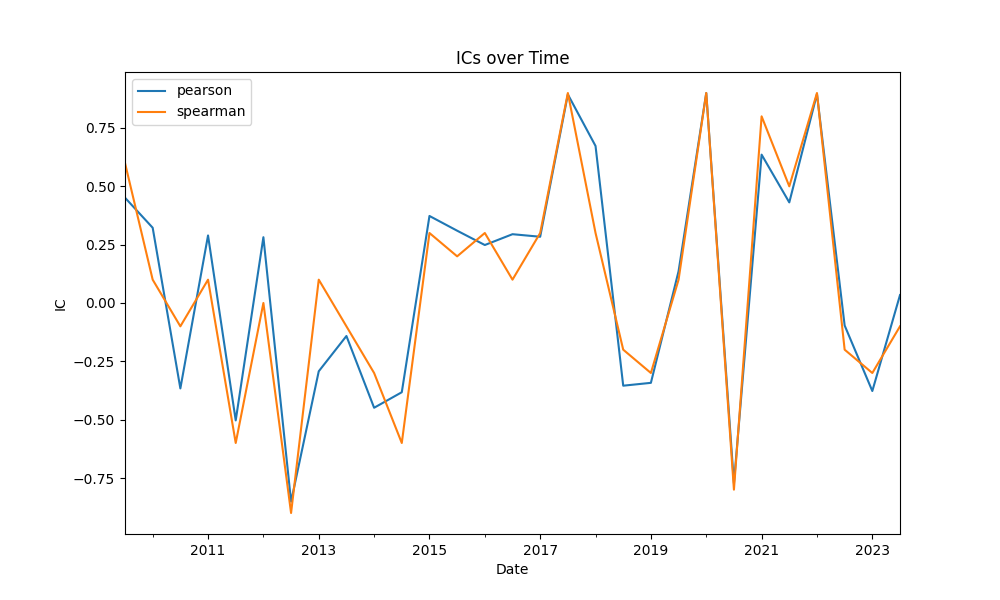
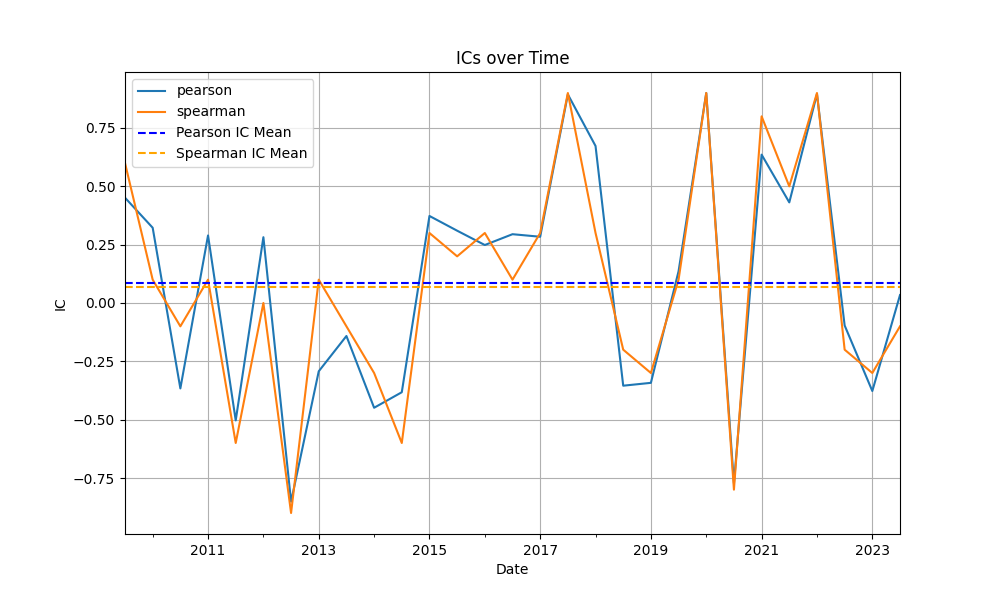
[Update] Enhance IC plots with mean lines and improve readability; remove outdated TODO list

Changed region(s): [[0.124, 0.45, 0.899, 0.48], [0.155, 0.21, 0.341, 0.27]]

diff --git a/src/bagel_factor/single_factor_evaluation/factor_evaluation.py b/src/bagel_factor/single_factor_evaluation/factor_evaluation.py
@@ -183,6 +183,12 @@ def _plot_group_means(group_result_table: pd.DataFrame, output_path: Path, filen
 
 def _plot_ics(ic_s: pd.DataFrame, output_path: Path, filename: str = "ics.png"):
     ax = ic_s.plot(title="ICs over Time", ylabel="IC", xlabel="Date", figsize=(10, 6))
+    # Add mean lines for Pearson and Spearman ICs
+    ax.axhline(ic_s["pearson"].mean(), color='blue', linestyle='--', label='Pearson IC Mean')
+    ax.axhline(ic_s["spearman"].mean(), color='orange', linestyle='--', label='Spearman IC Mean')
+    ax.legend()
+    # Add grid for better readability
+    ax.grid(True)
     fig = ax.figure
     fig.savefig(output_path / filename)  # type: ignore
     plt.close(fig)  # type: ignore

diff --git a/docs/todo.md b/docs/todo.md
@@ -1,0 +1,6 @@
+# TODO
+
+## 2025-06-12
+
+- [X] mean value in time-series plot, 2025-06-12
+- [ ] Correlation between two ICs.
